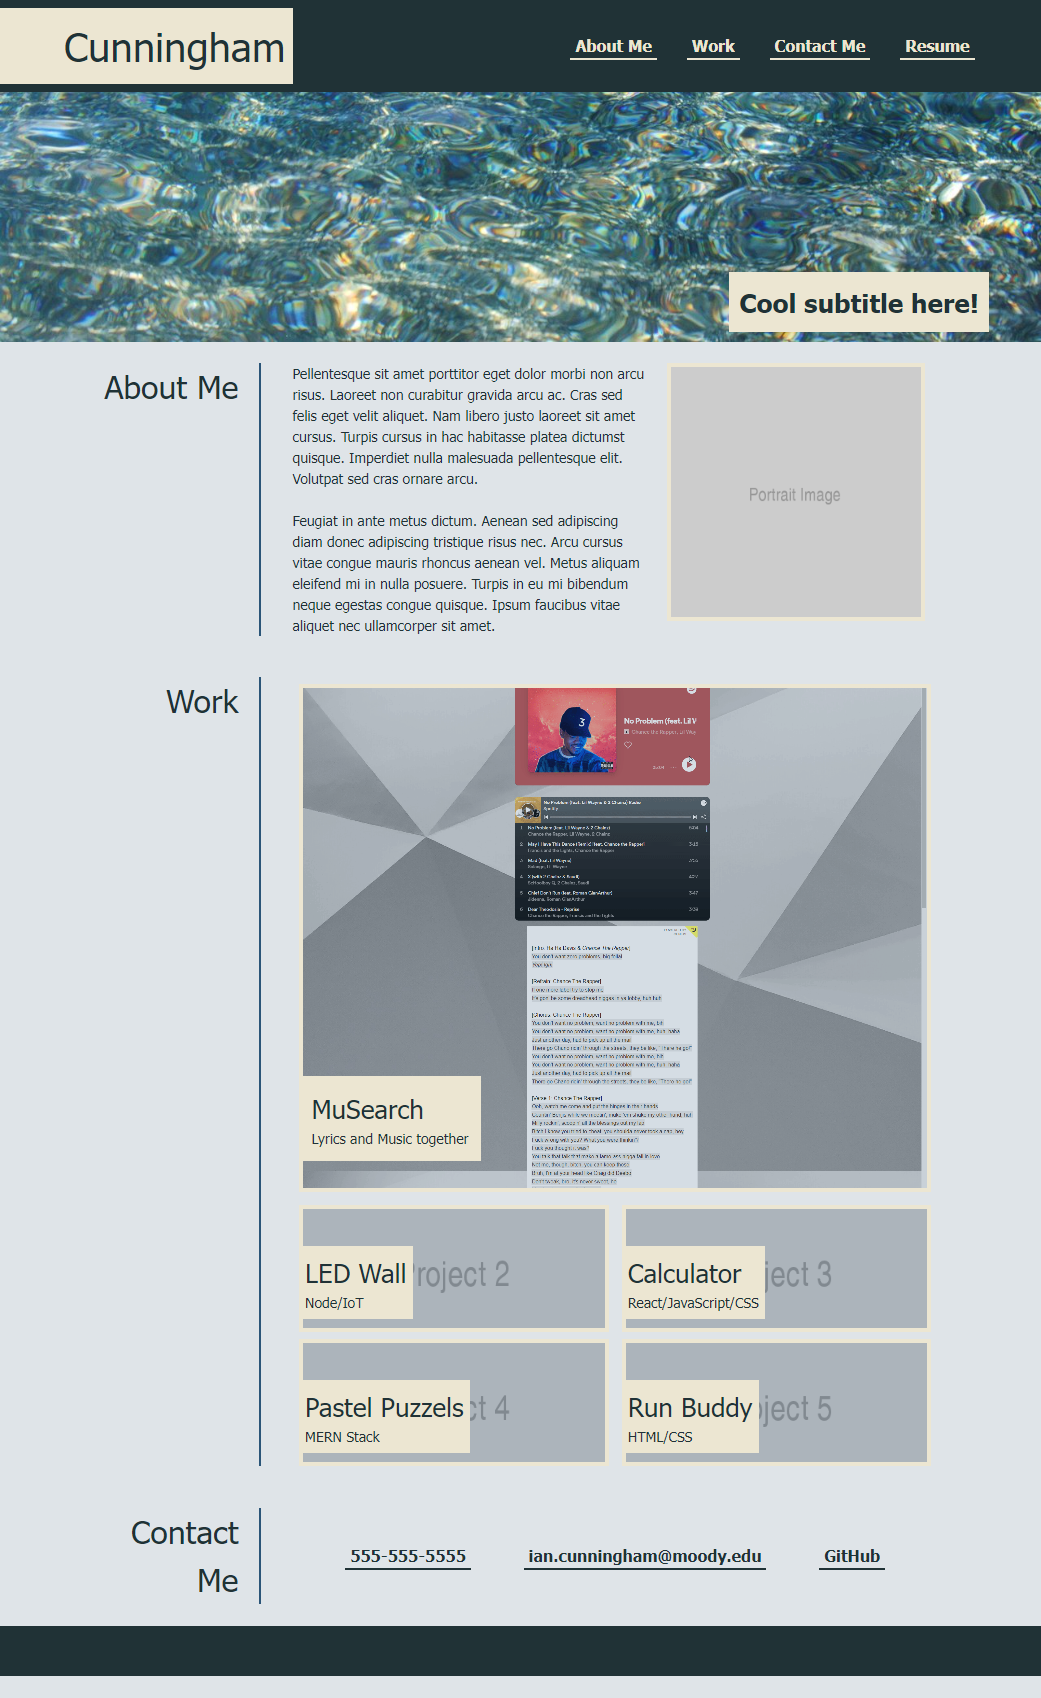
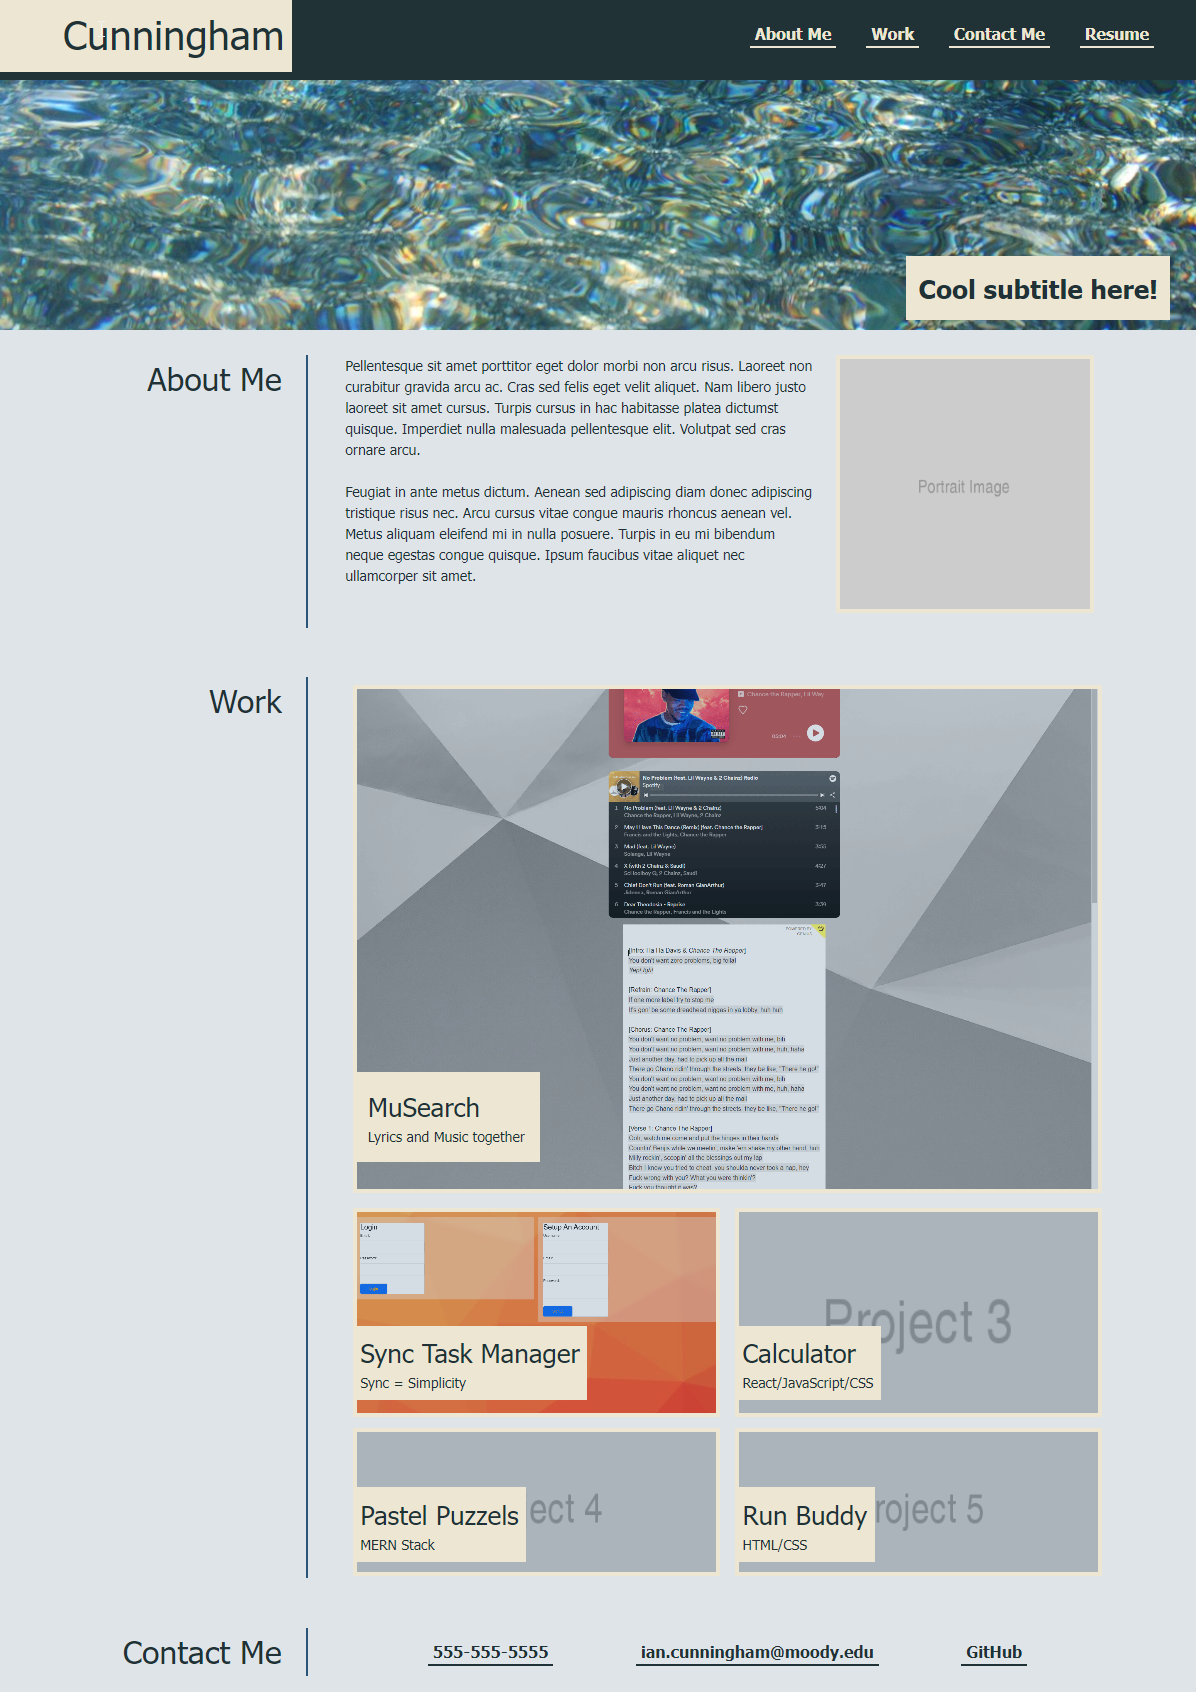
add Sync to portfolio

diff --git a/index.html b/index.html
@@ -67,13 +67,13 @@
                         <p>Lyrics and Music together</p>
                     </div>
                 </a>
-                <a class="project" href="https://github.com/icunningham7/Sandbox">
+                <a class="project" href="https://github.com/DavidPaniagua15/Group02">
                     <figure class="overlay">
-                        <img src="https://via.placeholder.com/400x150.png?text=Project+2" alt="LED Wall Project">
+                        <img src="./assets/images/Sync.png" alt="Sync Task Manager">
                     </figure>
                     <div class="project-details">
-                        <h3>LED Wall</h3>
-                        <p>Node/IoT</p>
+                        <h3>Sync Task Manager</h3>
+                        <p>Sync = Simplicity</p>
                     </div>
                 </a>
                 <a class="project" href="https://github.com/icunningham7/#third-project">
